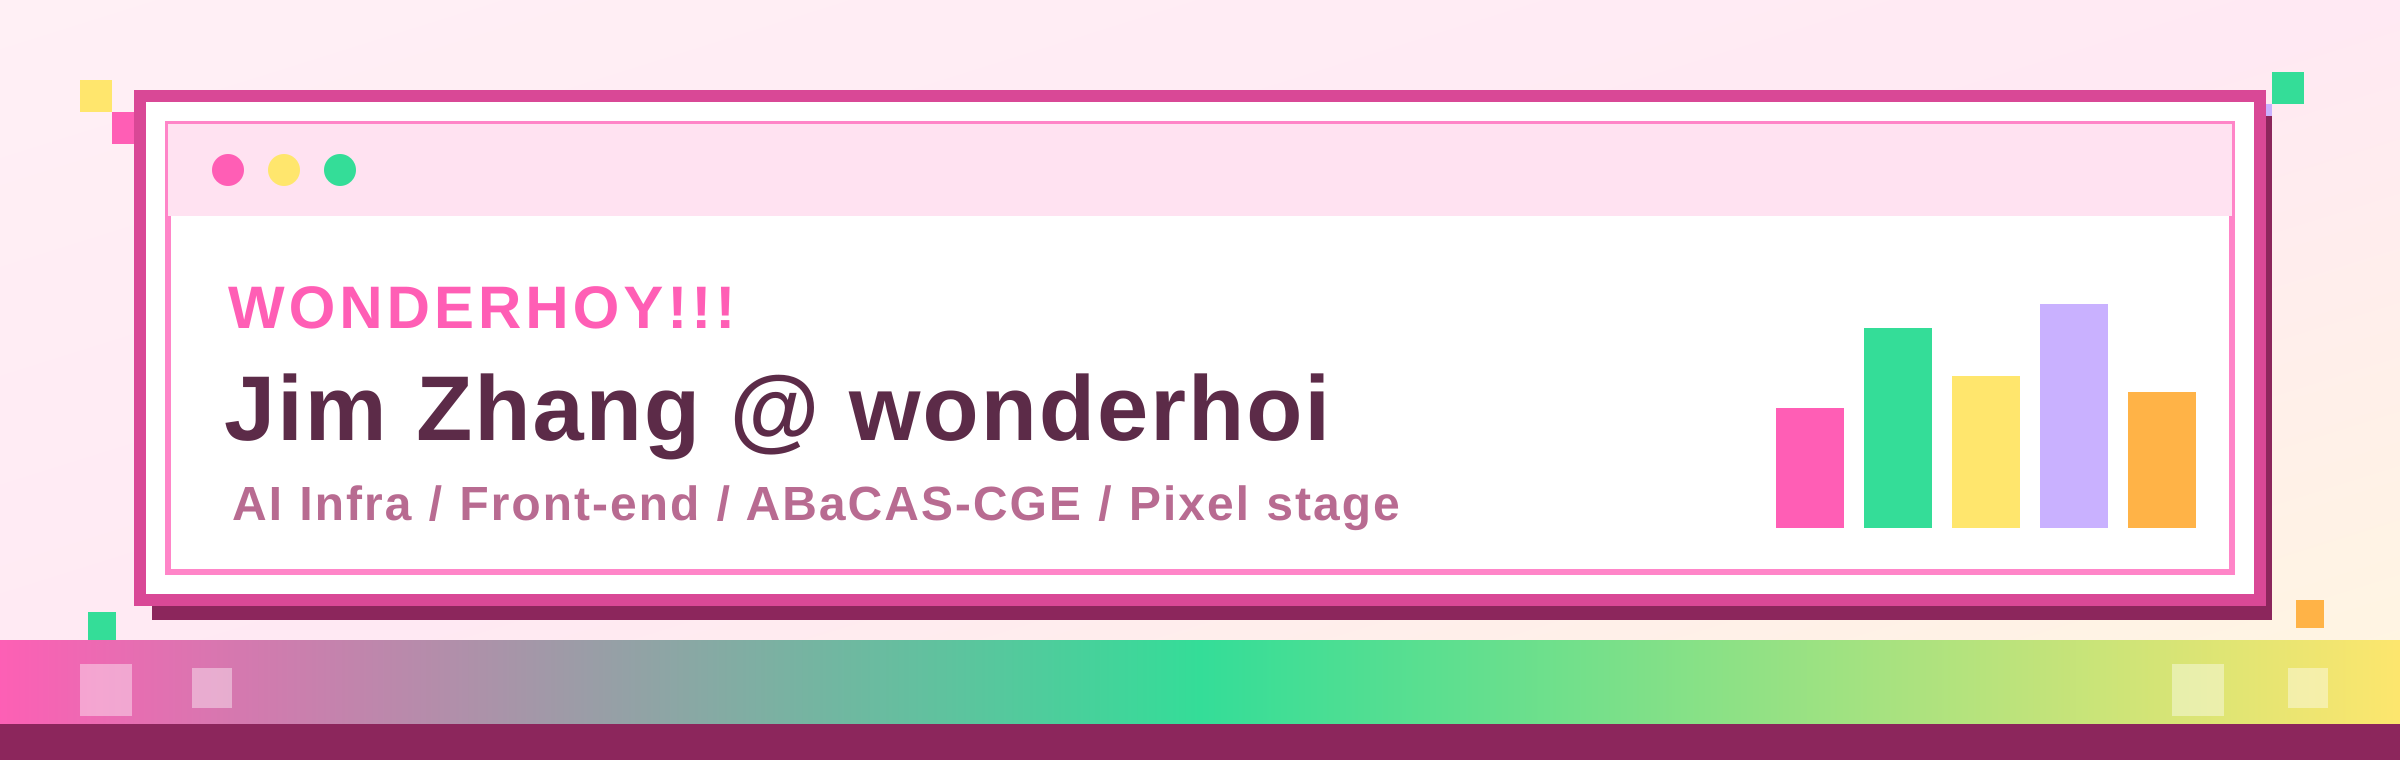
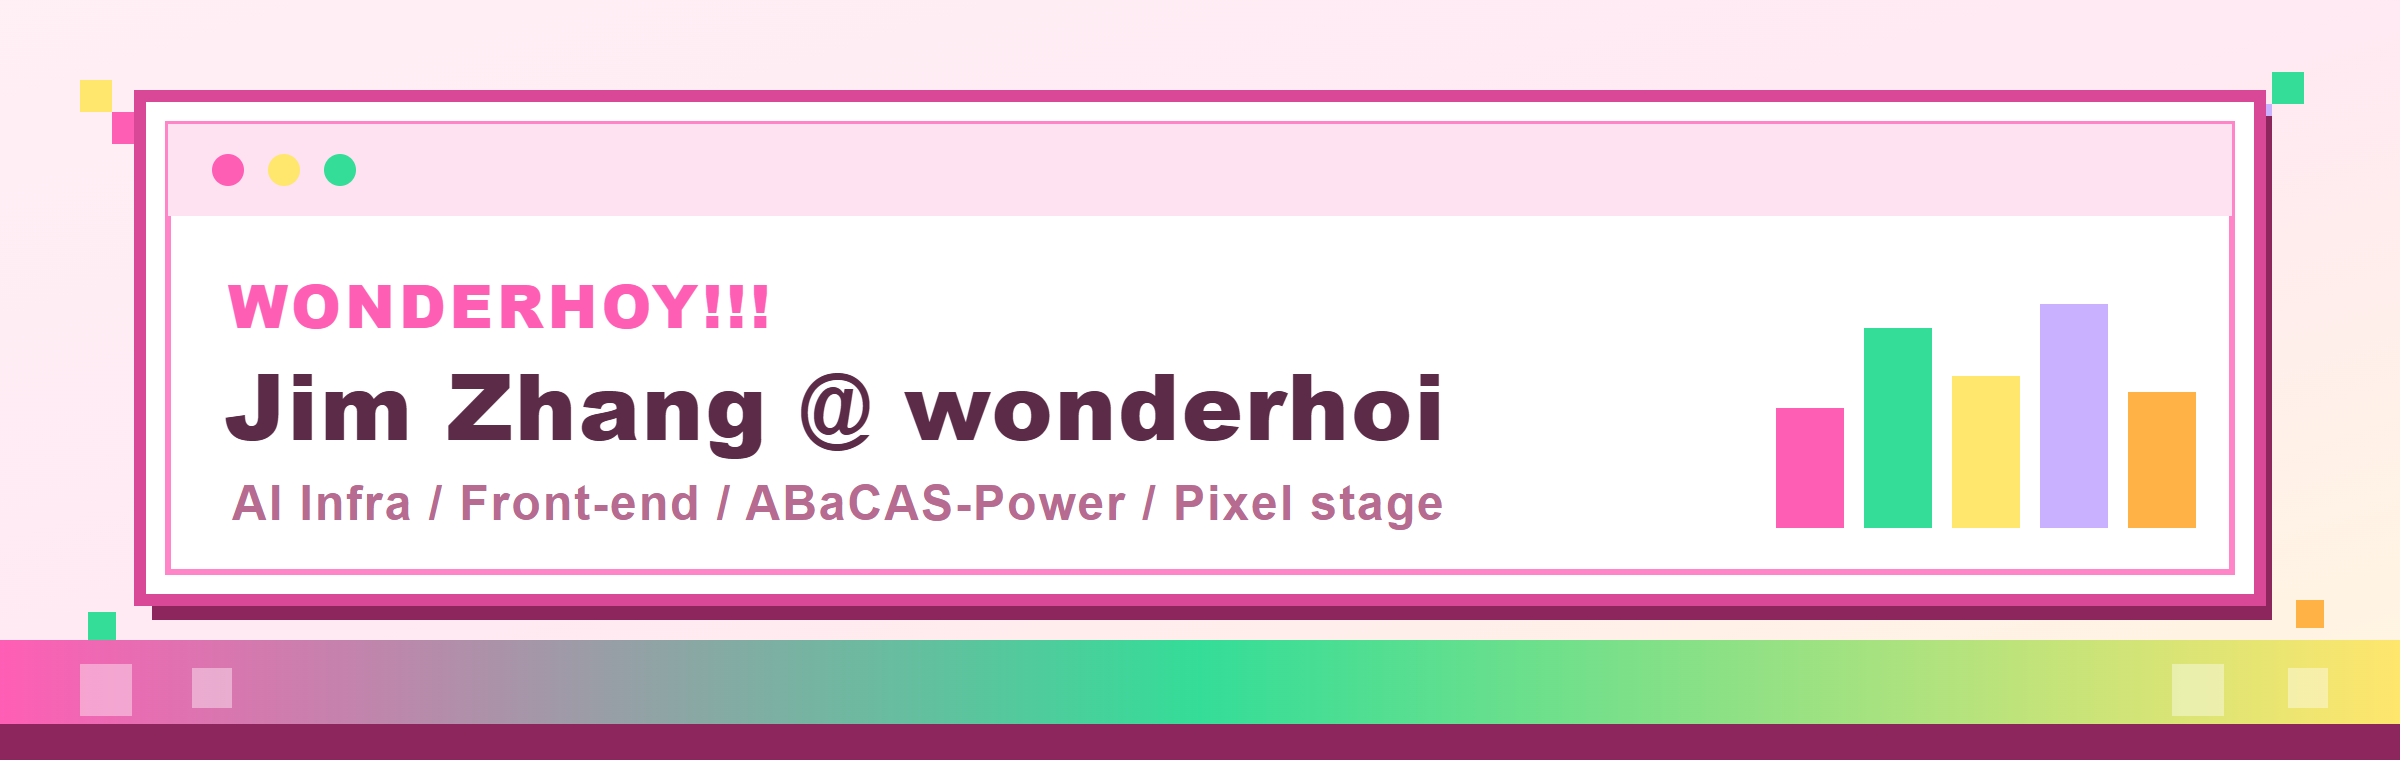
Feat: full-width cards, ABaCAS-Power, all-repo + AutoSkill stats
Changes:
- Replace remaining ABaCAS-CGE with ABaCAS-Power in stage-banner.svg
  and status-card.svg (last round only fixed README prose, not the
  image sources, so the rendered PNGs still showed the old name).
- Unify all card fonts to Arial/Helvetica (weight-driven, drop the
  separate "Arial Black" family).
- Widen status-card to 1200 and rebuild top-languages at 1200 so all
  three cards render full-width without upscaling blur; README now
  embeds status + languages at width 100%.
- generate-stats.mjs: count ALL repositories (public + private), and
  merge Jim's authored AutoSkill (jim-front-end) contribution as a
  byte snapshot derived from git history; Python now leads at 64.1%.
- Re-rasterize all three PNGs at 2x via headless Chromium.
- readme-stats workflow: gate language-card regeneration on a
  STATS_TOKEN PAT (repo scope); without it, skip regen and keep the
  committed snapshot instead of overwriting with public-only data.

Rationale: The images lagged the README text and only counted public
repos, hiding the bulk of the real authored volume on the private
AutoSkill repo. Sourcing from git history and gating CI on a PAT makes
the card reflect true work while staying safe when the token is absent.

diff --git a/README.md b/README.md
@@ -41,12 +41,12 @@ Cute energy    ██████████  WONDERHOY!!!
 ```
 
 <div align="center">
-  <img src="./assets/status-card.png" alt="Jim Zhang 的可爱状态面板" width="82%" />
+  <img src="./assets/status-card.png" alt="Jim Zhang 的可爱状态面板" width="100%" />
   <br />
-  <img src="./assets/top-languages.png" alt="Jim Zhang 的公开仓库语言占比（自托管，不依赖第三方服务）" width="62%" />
+  <img src="./assets/top-languages.png" alt="Jim Zhang 的全部仓库语言占比（含 AutoSkill 贡献，自托管，不依赖第三方服务）" width="100%" />
 </div>
 
-> 🎀 上面这张语言卡是**自己做的**！由 [`scripts/generate-stats.mjs`](./scripts/generate-stats.mjs) 直接调 GitHub GraphQL 统计公开仓库的真实语言占比，再渲染成像素 SVG，跟着仓库的 Action 每天自动刷新——不再依赖任何会限流、会挂的第三方服务啦！
+> 🎀 上面这张语言卡是**自己做的**！由 [`scripts/generate-stats.mjs`](./scripts/generate-stats.mjs) 直接调 GitHub GraphQL 统计**全部仓库**（公开 + 私有）的真实语言占比，并把我在 AutoSkill 上高强度编写的那部分也算进来，再渲染成像素 SVG——不再依赖任何会限流、会挂的第三方服务啦！
 
 ## 🧭 一些入口
 
